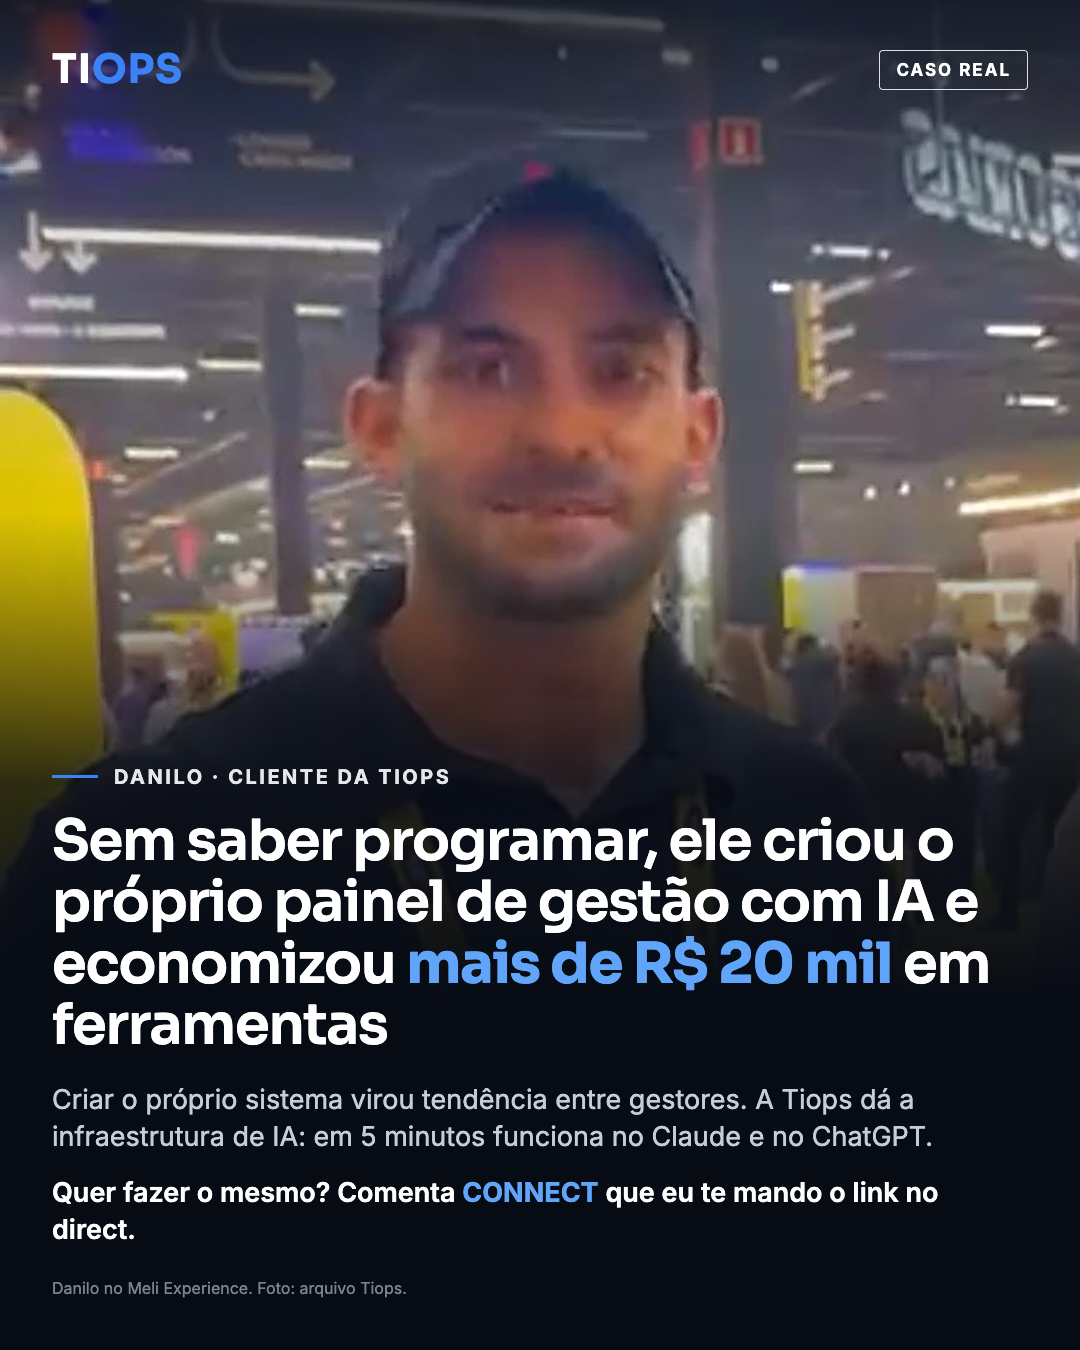
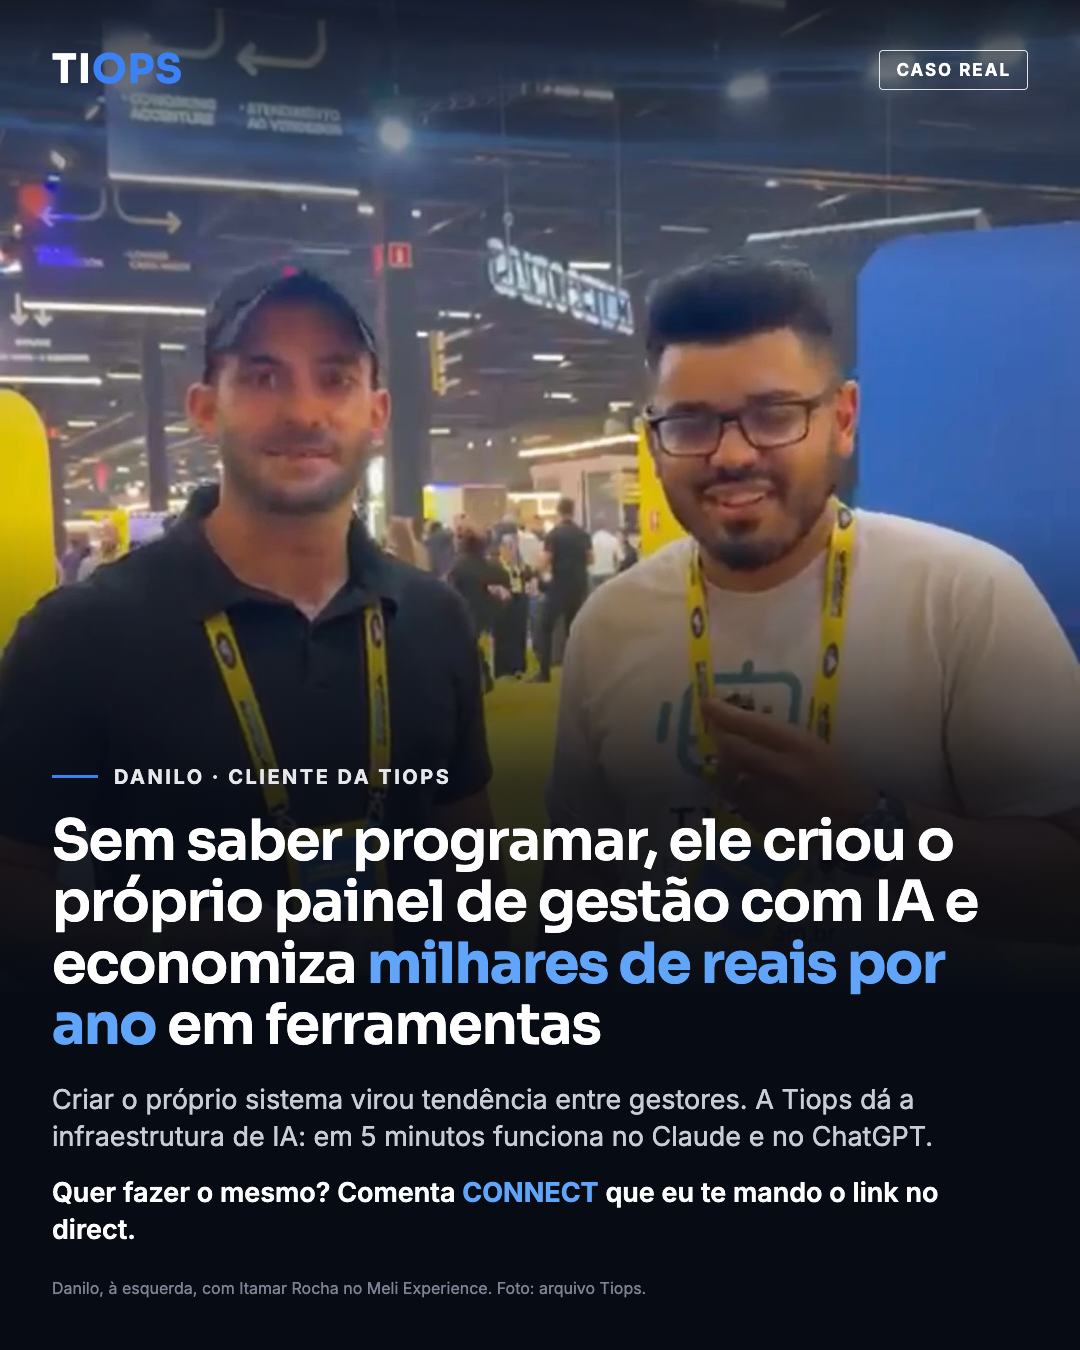
post estilo noticia: tela 2 com a foto do Itamar e economia sem numero

diff --git a/output/post-estilo-noticia/card2.html b/output/post-estilo-noticia/card2.html
@@ -3,7 +3,7 @@
 <style>
 *{margin:0;padding:0;box-sizing:border-box}
 body{width:1080px;height:1350px;overflow:hidden;background:#070b14;font-family:'Inter',sans-serif;color:#fff;position:relative}
-.foto{position:absolute;inset:0;background:url(foto-danilo.jpg) center/cover}
+.foto{position:absolute;inset:0;background:url(foto.jpg) center/cover}
 .sombra{position:absolute;inset:0;background:
  linear-gradient(180deg,rgba(7,11,20,.8) 0%,rgba(7,11,20,0) 20%,rgba(7,11,20,0) 38%,rgba(7,11,20,.82) 58%,#070b14 74%)}
 .topo{position:absolute;top:44px;left:52px;right:52px;display:flex;justify-content:space-between;align-items:center}
@@ -23,8 +23,8 @@ h1 b{font-weight:700;color:#60a5fa}
 <div class="topo"><div class="marca">TI<span>OPS</span></div><div class="tag">CASO REAL</div></div>
 <div class="base">
  <div class="kicker">DANILO · CLIENTE DA TIOPS</div>
- <h1>Sem saber programar, ele criou o próprio painel de gestão com IA e economizou <b>mais de R$&nbsp;20&nbsp;mil</b> em ferramentas</h1>
+ <h1>Sem saber programar, ele criou o próprio painel de gestão com IA e economiza <b>milhares de reais por ano</b> em ferramentas</h1>
  <div class="sub">Criar o próprio sistema virou tendência entre gestores. A Tiops dá a infraestrutura de IA: em 5 minutos funciona no Claude e no ChatGPT. <span class="cta">Quer fazer o mesmo? Comenta <b>CONNECT</b> que eu te mando o link no direct.</span></div>
- <div class="rodape"><span>Danilo no Meli Experience. Foto: arquivo Tiops.</span><i></i></div>
+ <div class="rodape"><span>Danilo, à esquerda, com Itamar Rocha no Meli Experience. Foto: arquivo Tiops.</span><i></i></div>
 </div>
 </body></html>

diff --git a/output/post-estilo-noticia/legenda.md b/output/post-estilo-noticia/legenda.md
@@ -2,7 +2,7 @@
 
 Telas: `card-1.png` (Tiops, R$ 50 mi/mês) e `card-2.png` (Danilo, caso real).
 Status: RASCUNHO — aguardando "sim" do Itamar. Postar entre 16h e 20h.
-Danilo autorizou aparecer em página e anúncio (memória provas-sociais, 04/11/2026). "Mais de R$ 20 mil economizados em ferramentas" dito pelo Itamar em 23/11: confirmar se o Danilo topa o número público.
+Danilo autorizou aparecer em página e anúncio (memória provas-sociais, 04/11/2026). Economia do Danilo sem número: "milhares de reais por ano em ferramentas" (Itamar, 23/11).
 Número "mais de R$ 50 milhões por mês em vendas" = GMV mensal, dito pelo Itamar em 23/11/2026.
 
 ## Legenda
@@ -11,7 +11,7 @@ Esta empresa brasileira criou uma IA para marketplace que já gerencia mais de R
 
 A Tiops conecta a inteligência artificial às contas de Mercado Livre, Shopee e outros marketplaces. A IA responde perguntas, cuida de promoções e emite nota fiscal, direto no Claude e no ChatGPT, em português.
 
-Um dos clientes, o Danilo, foi além: sem saber programar, usou a ferramenta da Tiops para montar o próprio painel de gestão da loja e economizou mais de R$ 20 mil em ferramentas.
+Um dos clientes, o Danilo, foi além: sem saber programar, usou a ferramenta da Tiops para montar o próprio painel de gestão da loja e hoje economiza milhares de reais por ano em ferramentas.
 
 Criar o próprio sistema virou tendência entre gestores e donos de negócio. A Tiops dá a infraestrutura de IA, simples, que funciona em 5 minutos com o Claude e o ChatGPT.
 
